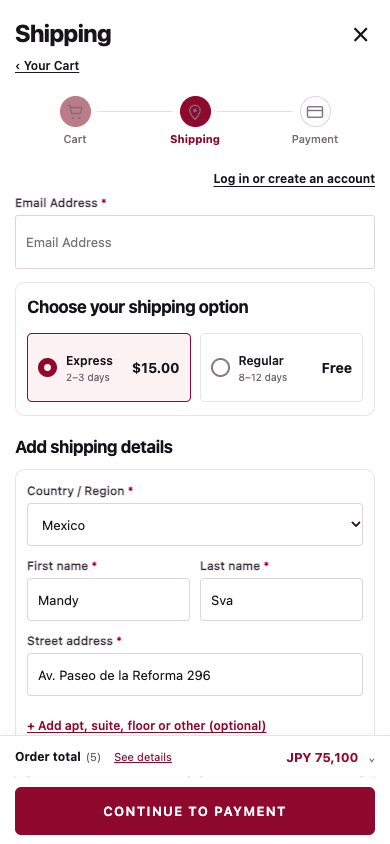
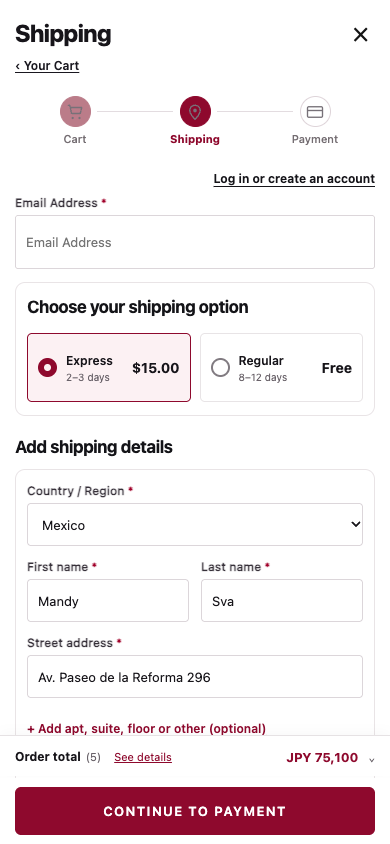
fix(checkout): align Owner Dev UAT shipping fields, express payment phase and notes

Changed region(s): [[0.0615, 0.6469, 0.6769, 0.8934], [0.4615, 0.6469, 0.6769, 0.7393]]

diff --git a/theme/beyourlover-v3/assets/css/checkout-drawer.css b/theme/beyourlover-v3/assets/css/checkout-drawer.css
@@ -372,3 +372,124 @@ body.byl-checkout-drawer-mode #payment .wc_payment_methods>li>label{
     margin:0 0 16px!important;padding:5px 0 12px!important;
   }
 }
+
+/* Owner UAT 2026-10-16 P0: Shipping native Woo field visual chronology.
+   Native inputs/validation remain unchanged; priority PHP is the server-side
+   source and grid order prevents country/phone jumps in CSS at 320/390/PC. */
+body.byl-checkout-drawer-mode .byl-checkout-billing .woocommerce-billing-fields__field-wrapper {
+  display:grid!important;
+  grid-template-columns:repeat(6,minmax(0,1fr))!important;
+  align-content:start;column-gap:12px;row-gap:13px;
+}
+body.byl-checkout-drawer-mode .byl-checkout-billing .woocommerce-billing-fields__field-wrapper>.form-row {
+  order:80;
+  min-width:0;
+  margin:0!important;
+}
+body.byl-checkout-drawer-mode .woocommerce-billing-fields__field-wrapper>#billing_country_field {
+  order:10!important;grid-column:1/-1!important;
+}
+body.byl-checkout-drawer-mode .woocommerce-billing-fields__field-wrapper>#billing_first_name_field {
+  order:20!important;grid-column:1/span 3!important;
+}
+body.byl-checkout-drawer-mode .woocommerce-billing-fields__field-wrapper>#billing_last_name_field {
+  order:30!important;grid-column:4/span 3!important;
+}
+body.byl-checkout-drawer-mode .woocommerce-billing-fields__field-wrapper>#billing_address_1_field {
+  order:40!important;grid-column:1/-1!important;
+}
+body.byl-checkout-drawer-mode .woocommerce-billing-fields__field-wrapper>[data-byl-optional-for="billing_address_2_field"]{
+  order:45!important;grid-column:1/-1!important;
+}
+body.byl-checkout-drawer-mode .woocommerce-billing-fields__field-wrapper>#billing_address_2_field{
+  order:46!important;grid-column:1/-1!important;
+}
+body.byl-checkout-drawer-mode .woocommerce-billing-fields__field-wrapper>#billing_city_field {
+  order:55!important;grid-column:1/span 3!important;
+}
+body.byl-checkout-drawer-mode .woocommerce-billing-fields__field-wrapper>#billing_state_field {
+  order:60!important;grid-column:4/span 3!important;
+}
+body.byl-checkout-drawer-mode .woocommerce-billing-fields__field-wrapper>#shipping_phone_field {
+  order:70!important;grid-column:1/-1!important;
+}
+body.byl-checkout-drawer-mode .woocommerce-billing-fields__field-wrapper>#billing_postcode_field {
+  order:85!important;grid-column:1/-1!important;
+}
+body.byl-checkout-drawer-mode .woocommerce-billing-fields__field-wrapper>[data-byl-optional-for="billing_company_field"]{
+  order:110!important;grid-column:1/-1!important;
+}
+body.byl-checkout-drawer-mode .woocommerce-billing-fields__field-wrapper>#billing_company_field {
+  order:111!important;grid-column:1/-1!important;
+}
+/* Actual Woo delivery note is offered in Shipping, not shown as a large
+   Additional information/textarea in the focused Payment step. */
+body.byl-checkout-drawer-mode [data-byl-notes-host]{
+  margin:8px 0 15px;padding:0;
+}
+body.byl-checkout-drawer-mode [data-byl-notes-host] .woocommerce-additional-fields[hidden],
+body.byl-checkout-drawer-mode [data-byl-notes-host] .byl-optional-delivery-note[hidden]{display:none!important;}
+body.byl-checkout-drawer-mode [data-byl-notes-host] .woocommerce-additional-fields h3 {
+  display:none!important;
+}
+body.byl-checkout-drawer-mode [data-byl-notes-host] textarea{
+  min-height:78px;resize:vertical;
+}
+body.byl-checkout-drawer-mode [data-byl-notes-host] .byl-optional-delivery-note{
+  font-size:12px;color:var(--byl-drawer-wine);padding:7px 0!important;
+}
+/* Three registered provider-owned express checkout hook callbacks render
+   inside Payment ONLY in the Dev drawer. This retains their own buttons
+   and validation. Do NOT hide or simulate a provider as a radio gateway. */
+body.byl-checkout-drawer-mode [data-byl-payment-express-host]{
+  width:100%;margin:0 0 22px;
+}
+body.byl-checkout-drawer-mode [data-byl-payment-express-host]:empty{display:none!important;}
+body.byl-checkout-drawer-mode [data-byl-payment-express-host] :is(
+  .wcpay-express-checkout-wrapper,
+  .wc-block-components-express-payment,
+  .wc-payment-request-wrapper
+){max-width:100%;}
+/* Woo's own unavailable-method notice remains visible, but must not create a
+   giant grey fake payment row or duplicate our disabled PAY NOW explanation. */
+body.byl-checkout-drawer-mode #payment .woocommerce-info,
+body.byl-checkout-drawer-mode #payment .woocommerce-notice,
+body.byl-checkout-drawer-mode #payment .woocommerce-notice--info {
+  font-size:12px!important;line-height:1.5!important;
+  padding:12px 14px!important;margin:0 0 8px!important;
+  background:#faf8f9!important;color:#534c52!important;
+  border:1px solid #eee8eb!important;border-radius:6px!important;
+  box-shadow:none!important;
+}
+body.byl-checkout-drawer-mode #payment:has(.woocommerce-info) {
+  padding:0!important;border:0!important;background:transparent!important;
+}
+@media(max-width:375px){
+  body.byl-checkout-drawer-mode .woocommerce-billing-fields__field-wrapper>#billing_first_name_field,
+  body.byl-checkout-drawer-mode .woocommerce-billing-fields__field-wrapper>#billing_last_name_field,
+  body.byl-checkout-drawer-mode .woocommerce-billing-fields__field-wrapper>#billing_city_field,
+  body.byl-checkout-drawer-mode .woocommerce-billing-fields__field-wrapper>#billing_state_field{
+    grid-column:1/-1!important;
+  }
+}
+
+/* Owner Payment PC reference: Shipping/Billing section, not four extra edit rows
+   or a redundant "Payment not configured" item on the summary side. */
+body.byl-checkout-drawer-mode .byl-drawer-review-heading {
+  font-size:13px;font-weight:750;letter-spacing:.005em;line-height:1.4;
+  margin:0 0 13px;color:#201b21;
+}
+body.byl-checkout-drawer-mode .byl-payment-review {
+  border-top:2px solid #232025;border-bottom:2px solid #232025;
+  margin:20px 0;padding:17px 0!important;
+}
+body.byl-checkout-drawer-mode .byl-payment-review .byl-review-details>div:has([data-byl-review="payment"]) {
+  display:none!important;
+}
+/* Coupon editing is already available in Cart/Shipping; keep Pay Now focused. */
+body.byl-checkout-drawer-mode .byl-progressive-checkout[data-byl-current-step="payment"] .byl-summary-promo {
+  display:none!important;
+}
+@media(max-width:760px) {
+  body.byl-checkout-drawer-mode .byl-payment-review {display:none!important;}
+}

diff --git a/scripts/fixtures/checkout-drawer-owner-visual.html b/scripts/fixtures/checkout-drawer-owner-visual.html
@@ -48,13 +48,13 @@
              <div class="form-row form-row-first" id="billing_first_name_field"><label>First name <span class="required">*</span></label><input class="input-text" value="Mandy"></div>
              <div class="form-row form-row-last" id="billing_last_name_field"><label>Last name <span class="required">*</span></label><input class="input-text" value="Sva"></div>
              <div class="form-row form-row-wide" id="billing_address_1_field"><label>Street address <span class="required">*</span></label><input class="input-text" value="Av. Paseo de la Reforma 296"></div>
-             <div class="form-row form-row-wide"><button type="button" class="byl-optional-address-trigger">+ Add apt, suite, floor or other (optional)</button></div>
+             <div class="form-row form-row-wide"><button type="button" class="byl-optional-address-trigger" data-byl-optional-for="billing_address_2_field">+ Add apt, suite, floor or other (optional)</button></div>
              <div class="form-row form-row-first" id="billing_city_field"><label>City <span class="required">*</span></label><input class="input-text" value="Mexico City"></div>
              <div class="form-row form-row-last" id="billing_state_field"><label>State / Region <span class="required">*</span></label><select><option>Ciudad de México</option></select></div>
              <div class="form-row form-row-wide" id="shipping_phone_field"><label>Phone <span class="required">*</span></label><input class="input-text" value="+52 55 1234 5678"><p id="shipping_phone-description">We will only use this number in case we need to contact you regarding delivery purposes.</p></div>
              <div class="form-row form-row-wide" id="billing_postcode_field"><label>Postal code <span class="required">*</span></label><input class="input-text" value="06600"></div>
              <div class="form-row form-row-wide"><label>RFC Tax ID <span class="required">*</span></label><input class="input-text" value="SAVM8900101ABC"></div>
-             <div class="form-row form-row-wide"><button type="button" class="byl-optional-address-trigger">+ Add organization (optional)</button></div>
+             <div class="form-row form-row-wide"><button type="button" class="byl-optional-address-trigger" data-byl-optional-for="billing_company_field">+ Add organization (optional)</button></div>
            </div></div></div>
            <p style="font-size:11px;color:#777">Estimated shipping, duties and taxes are shown for illustration only.</p>
         </div></section>

diff --git a/theme/beyourlover-v3/assets/js/checkout.js b/theme/beyourlover-v3/assets/js/checkout.js
@@ -97,6 +97,7 @@
       trigger.type = 'button';
       trigger.className = 'byl-optional-address-trigger';
       trigger.textContent = title;
+      trigger.dataset.bylOptionalFor = id;
       trigger.setAttribute('aria-controls', id);
       const expanded = String(input.value || '').trim().length > 0;
       row.hidden = !expanded;
@@ -110,6 +111,32 @@
         input.focus({preventScroll: false});
       });
     });
+  }
+  function wireOptionalDeliveryNote() {
+    // Woo owns this real optional field. Never clone it, remove the name or
+    // invent a new data contract merely for visual presentation.
+    const notes = root.querySelector('[data-byl-notes-host] .woocommerce-additional-fields');
+    if (!notes || notes.dataset.bylDeliveryNoteWired === '1') return;
+    const input = notes.querySelector('#order_comments, textarea[name="order_comments"]');
+    if (!input) return;
+    const host = notes.parentElement;
+    const trigger = document.createElement('button');
+    trigger.type = 'button';
+    trigger.className = 'byl-optional-address-trigger byl-optional-delivery-note';
+    trigger.textContent = '+ Add delivery note (optional)';
+    trigger.setAttribute('aria-controls', input.id || 'order_comments');
+    const populated = !!String(input.value || '').trim();
+    trigger.hidden = populated;
+    notes.hidden = !populated;
+    trigger.setAttribute('aria-expanded', populated ? 'true' : 'false');
+    host.insertBefore(trigger, notes);
+    trigger.addEventListener('click', () => {
+      notes.hidden = false;
+      trigger.hidden = true;
+      trigger.setAttribute('aria-expanded', 'true');
+      input.focus({preventScroll:false});
+    });
+    notes.dataset.bylDeliveryNoteWired = '1';
   }
   function syncPhoneDescription() {
     const description = root.querySelector('#shipping_phone-description');
@@ -290,6 +317,7 @@
     if (reviewInvite) reviewInvite.textContent = 'Send me an optional review invitation with gift card rewards.';
     const notes = document.querySelector('.woocommerce-additional-fields');
     if (notes && notes.parentElement !== notesHost) notesHost.appendChild(notes);
+    wireOptionalDeliveryNote();
   }
   function deliveryOptions() {
     deliveryHost.replaceChildren();

diff --git a/scripts/fixtures/checkout-lelo-woo-classic-mock.html b/scripts/fixtures/checkout-lelo-woo-classic-mock.html
@@ -15,8 +15,8 @@
 <div id="billing_postcode_field" class="validate-required"><input id="billing_postcode"></div>
 <div id="shipping_phone_field" class="validate-required"><label>Shipping phone </label><input id="shipping_phone"><p id="shipping_phone-description">Delivery only</p></div>
 <div id="billing_company_field"><input id="billing_company"></div><div id="billing_address_2_field"><input id="billing_address_2"></div>
-</div></section>
-<section data-byl-step="payment"><button type="button" data-byl-open-step="payment"></button><div data-byl-payment-host></div><div data-byl-notes-host></div><div data-byl-terms-host></div></section>
+</div><div class="woocommerce-additional-fields"><h3>Additional information</h3><div id="order_comments_field"><textarea id="order_comments" name="order_comments"></textarea></div></div><div data-byl-notes-host></div></section>
+<section data-byl-step="payment"><button type="button" data-byl-open-step="payment"></button><div data-byl-payment-host></div><div data-byl-terms-host></div></section>
 <div><p data-byl-error hidden></p><button type="button" data-byl-next>Continue</button></div>
 <aside class="byl-summary-card"><button type="button" data-byl-summary-toggle></button>
 <div class="byl-summary-body"><span class="byl-summary-total">$41.00</span><div data-byl-promotion></div>

diff --git a/theme/beyourlover-v3/woocommerce/checkout/form-checkout.php b/theme/beyourlover-v3/woocommerce/checkout/form-checkout.php
@@ -18,7 +18,13 @@ $cart = WC()->cart;
   <form name="checkout" method="post" class="checkout woocommerce-checkout byl-checkout-form" action="<?php echo esc_url(wc_get_checkout_url()); ?>" enctype="multipart/form-data" aria-label="<?php echo esc_attr__('Checkout', 'woocommerce'); ?>">
     <div class="byl-checkout-grid">
       <div class="byl-checkout-stages">
-        <?php if ($checkout->get_checkout_fields()) : do_action('woocommerce_checkout_before_customer_details'); ?>
+        <?php if ($checkout->get_checkout_fields()) :
+          // Woo express providers registered here: WCPay, PayPal, pay buttons.
+          // Dev-only Drawer moves their server-rendered host into Payment.
+          if (!function_exists('byl_v3_checkout_drawer_enabled') || !byl_v3_checkout_drawer_enabled()) {
+              do_action('woocommerce_checkout_before_customer_details');
+          }
+        ?>
         <section class="byl-checkout-step is-active" data-byl-step="shipping" aria-labelledby="byl-heading-shipping">
           <button type="button" class="byl-step-toggle" data-byl-open-step="shipping" aria-expanded="true"><span class="byl-step-number">2</span><span class="byl-step-heading"><strong id="byl-heading-shipping">Shipping</strong><small data-byl-step-summary="shipping">Contact, delivery option and address</small></span><span class="byl-step-edit">Edit</span></button>
           <div class="byl-step-body">
@@ -38,6 +44,7 @@ $cart = WC()->cart;
             </div>
             <h2 class="byl-shipping-details-heading">Add shipping details</h2>
             <div id="customer_details"><div class="byl-checkout-billing"><?php do_action('woocommerce_checkout_billing'); ?></div><div class="byl-checkout-shipping"><?php do_action('woocommerce_checkout_shipping'); ?></div></div>
+            <div data-byl-notes-host></div>
             <div data-byl-country-notices hidden></div>
           </div>
         </section>
@@ -46,9 +53,13 @@ $cart = WC()->cart;
           <button type="button" class="byl-step-toggle" data-byl-open-step="payment" aria-expanded="false"><span class="byl-step-number">3</span><span class="byl-step-heading"><strong id="byl-heading-payment">Payment</strong><small data-byl-step-summary="payment">Secure and encrypted</small></span><span class="byl-step-edit">Edit</span></button>
           <div class="byl-step-body">
             <h2 class="byl-payment-options-heading">Choose a payment option</h2>
+            <?php if (function_exists('byl_v3_checkout_drawer_enabled') && byl_v3_checkout_drawer_enabled()) : ?>
+            <div class="byl-payment-express-host" data-byl-payment-express-host aria-label="Express payment options">
+              <?php do_action('woocommerce_checkout_before_customer_details'); ?>
+            </div>
+            <?php endif; ?>
             <div data-byl-payment-host></div>
             <p class="byl-step-hint">Available payment methods are provided securely by WooCommerce and your chosen payment provider.</p>
-            <div data-byl-notes-host></div>
             <div data-byl-terms-host></div>
             <?php if (function_exists('byl_v3_checkout_drawer_enabled') && byl_v3_checkout_drawer_enabled()) : ?>
             <div class="byl-drawer-payment-total" data-byl-drawer-payment-total aria-label="Final order total">
@@ -70,7 +81,11 @@ $cart = WC()->cart;
                 if (!$product instanceof WC_Product || !$product->exists()) { continue; }
               ?><div class="byl-summary-product"><div class="byl-summary-image"><?php echo wp_kses_post($product->get_image('woocommerce_thumbnail')); ?></div><div><strong><?php echo esc_html($product->get_name()); ?></strong><small>Qty: <?php echo esc_html((string) $line['quantity']); ?></small></div><span><?php echo wp_kses_post($cart->get_product_subtotal($product, $line['quantity'])); ?></span></div><?php endforeach; endif; ?>
             </div>
-            <div class="byl-payment-review" aria-label="Shipping and billing details"><dl class="byl-review-details">
+            <div class="byl-payment-review" aria-label="Shipping and billing details">
+              <?php if (function_exists('byl_v3_checkout_drawer_enabled') && byl_v3_checkout_drawer_enabled()) : ?>
+              <h3 class="byl-drawer-review-heading">SHIPPING AND BILLING DETAILS</h3>
+              <?php endif; ?>
+              <dl class="byl-review-details">
             <div><dt>Contact</dt><dd data-byl-review="contact"></dd><button type="button" data-byl-open-step="shipping">Edit</button></div>
             <div><dt>Shipping Address</dt><dd data-byl-review="address"></dd><button type="button" data-byl-open-step="shipping">Edit</button></div>
             <div><dt>Delivery</dt><dd data-byl-review="delivery"></dd><button type="button" data-byl-open-step="shipping">Edit</button></div>

diff --git a/scripts/test_checkout_drawer_option_b_contract.py b/scripts/test_checkout_drawer_option_b_contract.py
@@ -56,4 +56,27 @@ assert "height:100dvh" in f["css"],"Drawer edge-to-edge"
 assert "position:fixed!important" in f["css"],"Mobile CTA needs one fixed component"
 assert "top:auto!important;height:auto!important" in f["css"],"Fixed mobile summary cannot stretch across viewport"
 assert "body.byl-checkout-drawer-mode" in f["css"]
+# Actual Owner screenshot FAIL #1: shipping country/phone/ZIP chronology
+assert "'billing_country' => 5" in f["checkout"]
+assert "'billing_postcode' => 85" in f["checkout"]
+assert "'priority' => 70" in f["checkout"] and "'shipping_phone'" in f["checkout"]
+for s in ("#billing_country_field", "#billing_first_name_field", "#billing_last_name_field",
+          "#billing_address_1_field", "#billing_city_field", "#billing_state_field",
+          "#shipping_phone_field", "#billing_postcode_field",
+          '[data-byl-optional-for="billing_address_2_field"]',
+          '[data-byl-optional-for="billing_company_field"]'):
+ assert s in f["css"],s
+assert "trigger.dataset.bylOptionalFor = id" in f["native"]
+# Actual Owner screenshot FAIL #2: Express wallets from native registered
+# Woo checkout before_customer_details must run once, on Payment in Dev Drawer,
+# and once at original position on /checkout/ fallback, not both.
+assert f["form"].count("do_action('woocommerce_checkout_before_customer_details')") == 2
+assert "if (!function_exists('byl_v3_checkout_drawer_enabled') || !byl_v3_checkout_drawer_enabled())" in f["form"]
+assert 'data-byl-payment-express-host' in f["form"]
+assert f["form"].index('data-byl-payment-express-host') > f["form"].index('data-byl-step="payment"')
+# Actual Owner screenshot FAIL #3: No extra optional note area on Payment.
+assert f["form"].count('data-byl-notes-host') == 1
+assert f["form"].index('data-byl-notes-host') < f["form"].index('data-byl-step="payment"')
+assert "wireOptionalDeliveryNote()" in f["native"]
+
 print("CHECKOUT_DRAWER_OPTION_B_STATIC_GATE_PASS: exact owner 3-step shell, route-safe single Woo checkout, staging-only, no iframe/DB/order gateway writes")

diff --git a/scripts/test_checkout_lelo_three_step_l3_contract.py b/scripts/test_checkout_lelo_three_step_l3_contract.py
@@ -21,7 +21,10 @@ for obsolete in ('data-byl-step="address"', 'data-byl-step="delivery"',
     assert obsolete not in form, obsolete
 assert form.index('data-byl-delivery-options') < form.index('id="customer_details"')
 assert form.index('data-byl-payment-host') < form.index('data-byl-terms-host')
-assert form.index('data-byl-payment-host') < form.index('data-byl-notes-host')
+# Owner: Woo real order notes belong in the optional Shipping accordion, never Payment.
+assert form.index('data-byl-notes-host') < form.index('data-byl-step="payment"')
+assert form.count('data-byl-notes-host') == 1
+assert "wireOptionalDeliveryNote()" in script
 assert "data-byl-country-notices hidden" in form
 assert "Log in or create an account" in form and "Edit your profile" in form
 assert form.index('data-byl-account-email-host') < form.index('data-byl-delivery-options')
@@ -41,11 +44,15 @@ assert "chosenShippingRates().length === wooShippingGroups().size" in script
 assert "if (active !== 'payment' || !paymentConfigured()" in script
 assert "function wireOptionalAddressFields()" in script
 assert "billing_address_2_field" in script and "billing_company_field" in script
+assert "trigger.dataset.bylOptionalFor = id" in script
+assert "'billing_country' => 5" in fields
+assert "'billing_postcode' => 85" in fields
+assert "data-byl-payment-express-host" in form
 assert "input.checked = true" in script
 for forbidden in ("devPrecheck", "syncConsentCheckboxes", "consentChoice",
                   "terms.checked = true", "consentInput.checked = true"):
     assert forbidden not in script, forbidden
-for required in ("'priority' => 85", "'label' => 'Phone'",
+for required in ("'priority' => 70", "'label' => 'Phone'",
                  "We will only use this number in case we need to contact you regarding delivery purposes.",
                  "['billing_company']['required'] = false"):
     assert required in fields, required

diff --git a/theme/beyourlover-v3/inc/checkout.php b/theme/beyourlover-v3/inc/checkout.php
@@ -21,12 +21,31 @@ add_filter('woocommerce_checkout_fields', static function (array $fields): array
         $fields['billing']['billing_email']['class'] = ['form-row-wide'];
     }
 
+    // Owner-locked Shipping sequence. Woo field priorities control native
+    // server markup; the scoped Drawer CSS is the defensive visual fallback.
+    // The original email stays a real Woo field and is reparented above rates.
+    // Never clone a second field or override Woo validation / country data.
+    foreach ([
+        'billing_country' => 5,
+        'billing_first_name' => 10,
+        'billing_last_name' => 20,
+        'billing_address_1' => 40,
+        'billing_address_2' => 45,
+        'billing_city' => 55,
+        'billing_state' => 60,
+        'billing_postcode' => 85,
+    ] as $id => $priority) {
+        if (isset($fields['billing'][$id])) {
+            $fields['billing'][$id]['priority'] = $priority;
+        }
+    }
+
     $fields['billing']['shipping_phone'] = [
         'type' => 'tel',
         'label' => 'Phone',
         'description' => 'We will only use this number in case we need to contact you regarding delivery purposes.',
         'required' => true,
-        'priority' => 85,
+        'priority' => 70,
         'class' => ['form-row-wide'],
         'autocomplete' => 'tel',
         'validate' => ['phone'],

diff --git a/docs/checkout-drawer/OWNER-REAL-DEV-SCREENSHOT-FAIL-REPAIR-20261016.md b/docs/checkout-drawer/OWNER-REAL-DEV-SCREENSHOT-FAIL-REPAIR-20261016.md
@@ -1,0 +1,19 @@
+# Checkout Drawer Option B — Owner real Dev screenshots: UAT FAIL
+2026-10-16 · Draft PR #120 · Dev release head 413062ba0cfb4b4196a07c40e8e7db9dc745dcc2
+
+## Evidence and privacy
+The Owner supplied genuine Shipping and Payment screenshots from a Dev Woo cart containing products. Do not copy these screenshots to the public GitHub repository: they contain identifying and session information. This note records sanitized findings.
+
+## P0 discrepancies against locked Shipping and Payment Owner PASS visuals
+1. Shipping Phone appears AFTER ZIP Code; move ahead of ZIP, retaining the native delivery-only privacy note.
+2. Shipping Country follows the name, and optional Apt and Company disclosures appear above required fields. Lock Country → First + Last → Street → optional Apt → City + State → Phone → ZIP → optional Organization. Post-ZIP Tax ID still needs an independent Woo server validation/country rules contract.
+3. WooPayments, PayPal and other express wallets render at the beginning of Shipping, although payment decisions belong on Payment. The Dev hook read-only audit found exactly three callbacks on woocommerce_checkout_before_customer_details: WCPay express priority 1, PaymentPlugins WooCommerce PPCP PaymentButtonController priority 10, and wc_get_pay_buttons priority 30. The repair keeps their real server-rendered hooks, but relocates output to the Payment section ONLY on Dev Option B; plain /checkout/ fallback remains unchanged.
+4. Payment shows the real Woo no-available-payment-methods message despite express wallet buttons. This is NOT evidence that card gateways have been enabled. Do not fake a method or enable PAY NOW; inspect activation, currency, address eligibility and Woo gateway state separately with Owner-approved read-only access.
+5. Native optional order_comments / Additional information appears as a distracting textarea on Payment. Reuse the genuine Woo field in a collapsed Shipping disclosure, opening automatically if populated; never rename or clone it.
+6. Payment left summary has an unnecessary Payment not configured row and editable coupon prompt. Keep Cart/Edit, Shipping/Billing details and Woo-computed order totals; coupon editing remains available in Cart/Shipping.
+
+## Repair implementation status
+Source changes in the same independent Draft branch: server-side Woo field priorities, defensively scoped six-column CSS grid orders, express-payment hook moved for Dev Drawer only, native optional delivery note moved under Shipping, compact native Woo unavailable-method notice, and sanitized left Payment summary. Source-only and synthetic DOM/browser regression tests must PASS before committing.
+
+## Release and UAT gates
+The prior exact-head approval covered PR120 head 413062ba0cfb4b4196a07c40e8e7db9dc745dcc2 ONLY. No new Dev, WWW, GitHub main merge or production transaction changes are authorized for this repair HEAD. New exact-head Dev-only approval plus file hashes, off-webroot backup and rollback required. After any authorized Canary, verify M320/M390/iPhone14/PC1440 real cart screenshots against Owner originals. Woo express buttons must initialize when Shipping progresses to Payment; abort if not. No real order, payment, account, email, DB writes or READY restarts. Country Notices, Tax ID, auto-account/Mail OS, true no-navigation Cart handoff, Commerce #87 E2E and WWW T6 remain HOLD.
